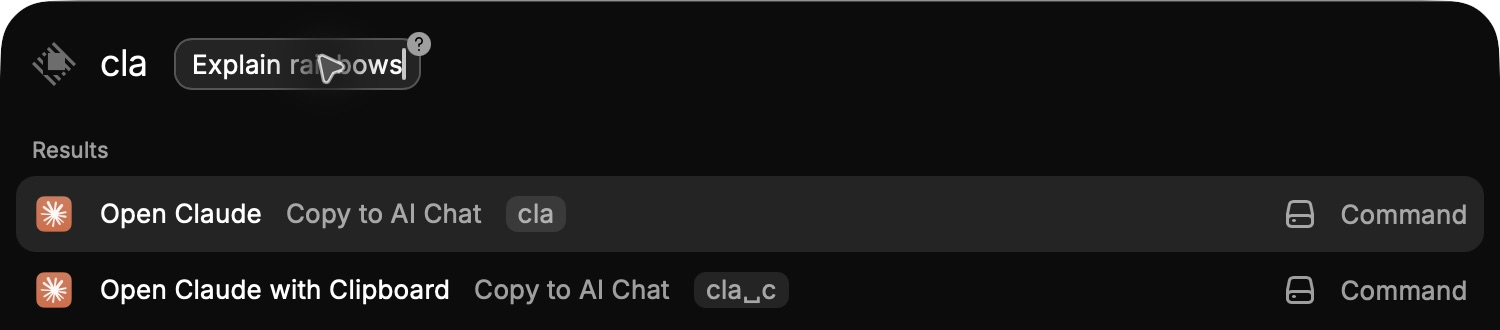
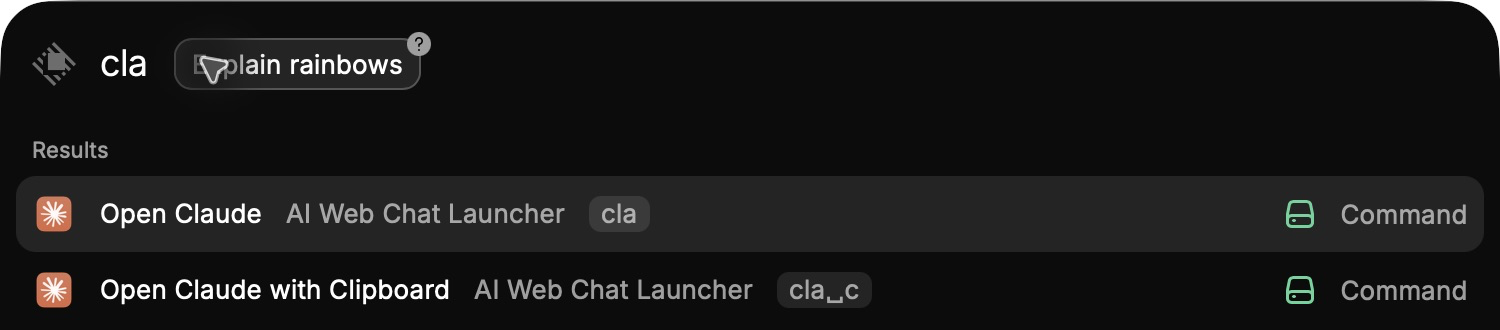
Rename extension to AI Web Chat Launcher

diff --git a/README.md b/README.md
@@ -1,10 +1,11 @@
-# Copy to AI Chat
+# AI Web Chat Launcher
 
-<img src="assets/extension-icon.png" alt="Copy to AI Chat" width="96" height="96" />
+<img src="assets/extension-icon.png" alt="AI Web Chat Launcher" width="96" height="96" />
 
-Open Claude, Gemini, ChatGPT, or Grok in Google Chrome from Raycast, with a typed
-query or the text on your clipboard. Review your prompt in the chat box before
-sending it. No API key is needed.
+Start a chat on the Claude, ChatGPT, Gemini, or Grok website with a prompt you type in Raycast or text from your clipboard.
+
+Chats open in Google Chrome. Review your prompt in the chat box before sending
+it. No API key is needed.
 
 ## Commands and shortcuts
 
@@ -83,8 +84,8 @@ bypass any service's sign-in or subscription requirements.
 Requires Node.js and npm, in addition to the requirements above:
 
 ```sh
-git clone https://github.com/noah-jacksonn/copy-to-ai-chat.git
-cd copy-to-ai-chat
+git clone https://github.com/noah-jacksonn/ai-web-chat-launcher.git
+cd ai-web-chat-launcher
 npm ci
 npm run dev
 ```

diff --git a/ASSETS.md b/ASSETS.md
@@ -8,8 +8,8 @@
 
 The respective providers retain ownership of their marks. These icons identify the destinations of the local commands.
 
-`extension-icon.png` is original AI-generated artwork created for Copy to AI
-Chat with GPT Image 2.5 Sunburst, selected by Noah Jackson and exported as a
+`extension-icon.png` is original artwork generated with GPT Image 2.5 Sunburst
+for this extension, selected by Noah Jackson and exported as a
 512 × 512 transparent PNG. It depicts a clipboard and speech bubble and does
 not contain any provider's mark.
 

diff --git a/CHANGELOG.md b/CHANGELOG.md
@@ -1,4 +1,4 @@
-# Copy to AI Chat Changelog
+# AI Web Chat Launcher Changelog
 
 ## [Initial Version] - {PR_MERGE_DATE}
 
